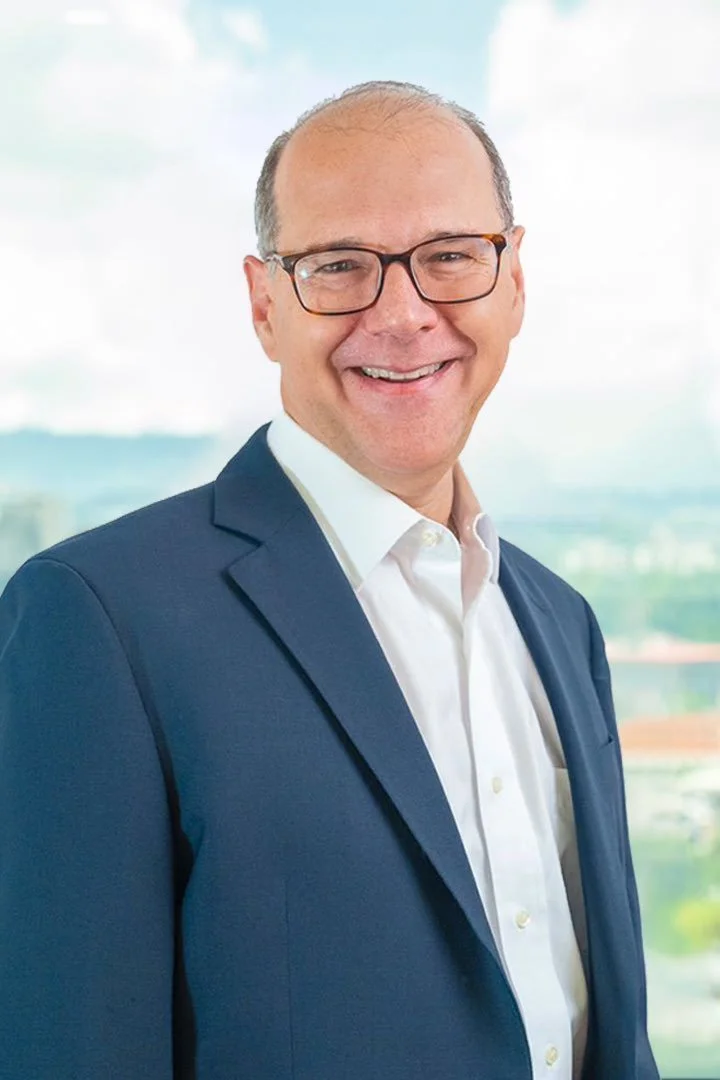
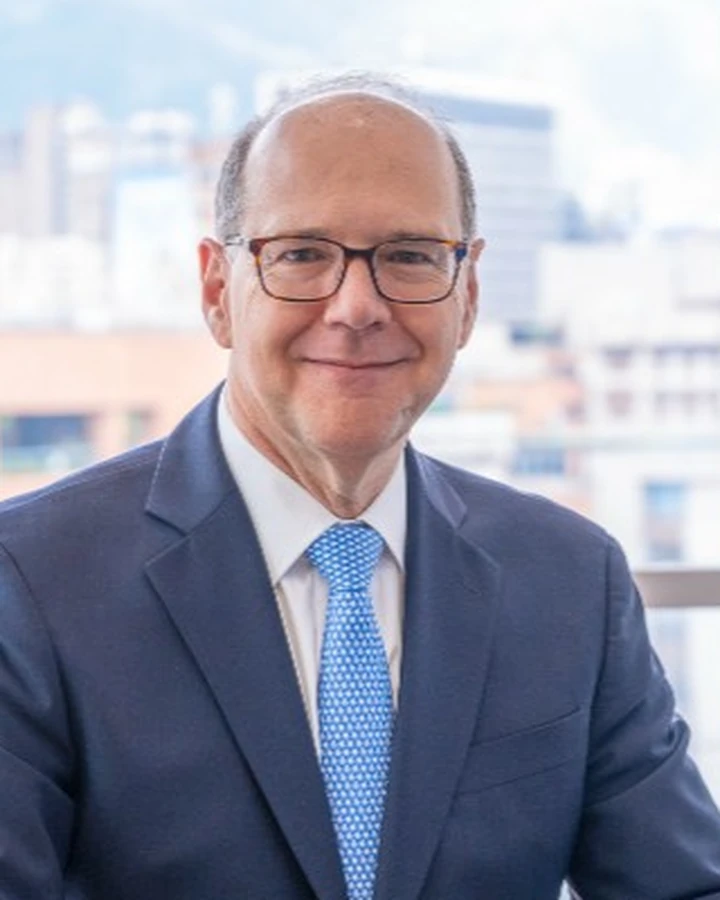
Replace the homepage partners photo and close the open associate role.
Use the practice-areas video in the strategic-solutions section, crop Álvaro Posada's portrait to match the other partners, and remove the careers listing while keeping the general CV contact.

diff --git a/src/app/[locale]/careers/page.tsx b/src/app/[locale]/careers/page.tsx
@@ -3,27 +3,10 @@
 import { Navbar } from "@/components/layout/Navbar";
 import { Footer } from "@/components/layout/Footer";
 import { PageHeader } from "@/components/layout/PageHeader";
-import { MoveUpRight, ArrowRight } from "lucide-react";
 import { useTranslations } from "next-intl";
-
-const LINKEDIN_JOB_URL = "https://www.linkedin.com/jobs/view/4365090894/";
 
 export default function CareersPage() {
     const t = useTranslations("CareersPage");
-
-    const openings = [
-        {
-            title: t("opportunities.openings.0.title"),
-            location: t("opportunities.openings.0.location"),
-            experience: t("opportunities.openings.0.experience"),
-            description: t("opportunities.openings.0.description"),
-            requirements: [
-                t("opportunities.openings.0.requirements.0"),
-                t("opportunities.openings.0.requirements.1"),
-                t("opportunities.openings.0.requirements.2"),
-            ]
-        }
-    ];
 
     return (
         <div className="flex min-h-screen flex-col">
@@ -40,7 +23,7 @@ export default function CareersPage() {
 
                 <section className="py-24 bg-white">
                     <div className="container mx-auto px-6 lg:px-12">
-                        <div className="max-w-4xl mx-auto mb-24 space-y-8 text-center">
+                        <div className="max-w-4xl mx-auto space-y-8 text-center">
                             <span className="text-[10px] font-bold uppercase tracking-[0.4em] text-primary/40 leading-relaxed block">
                                 {t("opportunities.subtitle")}
                             </span>
@@ -50,56 +33,6 @@ export default function CareersPage() {
                             <p className="text-xl text-slate-500 font-light max-w-2xl mx-auto leading-relaxed italic">
                                 {t("intro.p1")}
                             </p>
-                        </div>
-
-                        <div className="space-y-6">
-                            {openings.map((job, idx) => (
-                                <div
-                                    key={idx}
-                                    className="group p-10 border border-slate-100 bg-slate-50 hover:bg-primary transition-all duration-700 relative overflow-hidden flex flex-col lg:flex-row lg:items-center justify-between gap-12"
-                                >
-                                    <div className="flex-1 max-w-2xl space-y-6">
-                                        <div className="space-y-2">
-                                            <div className="flex items-center gap-4 text-[10px] font-bold uppercase tracking-[0.2em] text-slate-400 group-hover:text-white/60 transition-colors">
-                                                <span>{job.location}</span>
-                                                <span className="h-1 w-1 rounded-full bg-slate-300 group-hover:bg-white/30" />
-                                                <span>{job.experience}</span>
-                                            </div>
-                                            <h3 className="text-3xl font-serif text-primary group-hover:text-white transition-colors leading-tight">
-                                                {job.title}
-                                            </h3>
-                                        </div>
-                                        <p className="text-slate-500 group-hover:text-slate-200 transition-colors mb-0 leading-relaxed font-light italic">
-                                            {job.description}
-                                        </p>
-                                        <a
-                                            href={LINKEDIN_JOB_URL}
-                                            target="_blank"
-                                            rel="noopener noreferrer"
-                                            className="flex items-center gap-3 text-[10px] font-bold uppercase tracking-[0.3em] text-primary group-hover:text-white transition-all duration-500 pt-4"
-                                        >
-                                            <span className="border-b border-primary/20 group-hover:border-white/40 pb-1">{t("contact.apply")}</span>
-                                            <ArrowRight className="h-3 w-3" />
-                                        </a>
-                                    </div>
-
-                                    <div className="lg:w-1/3">
-                                        <ul className="space-y-3">
-                                            {job.requirements.map((req, rIdx) => (
-                                                <li key={rIdx} className="flex gap-4 text-sm text-slate-500 group-hover:text-white/70 transition-colors font-light">
-                                                    <span className="h-1.5 w-1.5 rounded-full bg-primary group-hover:bg-white mt-1.5 shrink-0" />
-                                                    {req}
-                                                </li>
-                                            ))}
-                                        </ul>
-                                    </div>
-
-                                    {/* Subtle background decoration */}
-                                    <div className="absolute top-0 right-0 p-8 opacity-[0.02] group-hover:opacity-[0.05] transition-opacity duration-700 pointer-events-none scale-150 rotate-12">
-                                        <MoveUpRight size={120} className="text-primary group-hover:text-white" />
-                                    </div>
-                                </div>
-                            ))}
                         </div>
                     </div>
                 </section>

diff --git a/src/app/[locale]/page.tsx b/src/app/[locale]/page.tsx
@@ -198,12 +198,16 @@ export default function Home() {
                 </ul>
               </div>
               <div className="relative aspect-square bg-slate-100 border border-slate-200 overflow-hidden group">
-                <Image
-                  src="/assets/team/APS & MER home.jpg"
-                  alt="Ágora Strategic Solutions"
-                  fill
-                  className="object-cover"
-                />
+                <video
+                  autoPlay
+                  loop
+                  muted
+                  playsInline
+                  className="absolute inset-0 h-full w-full object-cover"
+                  aria-label="Ágora practice areas"
+                >
+                  <source src="/assets/video/agora-eco.mp4" type="video/mp4" />
+                </video>
                 <div className="absolute inset-x-0 bottom-0 top-[82%] bg-white/95 border-t border-slate-200 translate-y-8 group-hover:translate-y-0 transition-transform duration-500 px-8 py-4 shadow-2xl flex flex-col justify-center">
                   <Link href="/team#partners" className="group/link flex items-center justify-between">
                     <span className="text-xl font-serif text-primary italic">{t("credibility.partners")}</span>
